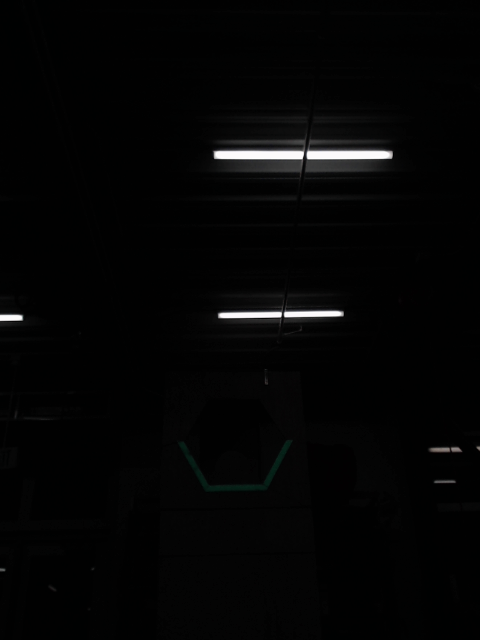
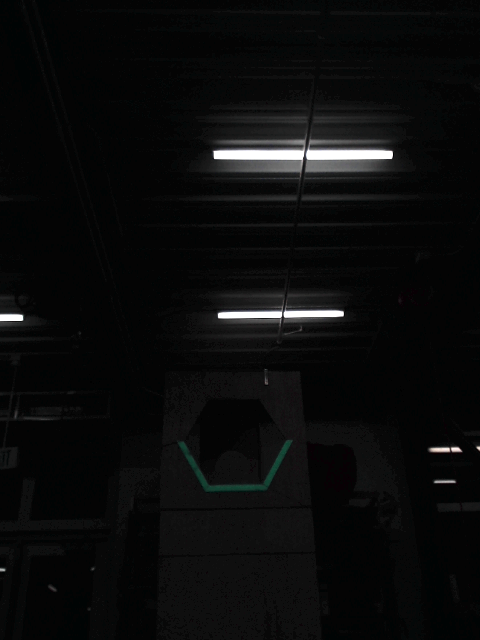
Fix constant angle error

diff --git a/pose_calculator.py b/pose_calculator.py
@@ -50,6 +50,8 @@ class PoseCalculator:
         # number of previous values to keep for average
         self.NUM_VALS = 10
 
+        self.CAMERA_TILT = math.radians(30)
+
     def __enter__(self):
         return self
 
@@ -162,9 +164,27 @@ class PoseCalculator:
         rvec, tvec = self.get_angle_dist(Target(corners, area))
         rmat, _ = cv2.Rodrigues(rvec)  # convert rotation vector to matrix
 
-        # rx, ry, rz = self.get_euler_from_rodrigues(rmat)
-        r_euler = R.from_rotvec(rvec.flatten()).as_euler('xyz', degrees=True)
-        rx, ry, rz = r_euler[0], r_euler[1], r_euler[2]
+        rx, ry, rz = self.get_euler_from_rodrigues(rmat)
+        # r_euler = R.from_rotvec(rvec.flatten()).as_euler('xyz', degrees=True)
+        # rx, ry, rz = r_euler[0], r_euler[1], r_euler[2]
+
+        # experimentally determined constant
+        ry += 26.5
+
+        rot = [rx, ry, rz]
+
+        rot_x = np.array([[1, 0, 0], [0, math.cos(math.radians(rot[0])), -math.sin(math.radians(rot[0]))], [0, math.sin(math.radians(rot[0])), math.cos(math.radians(rot[0]))]])
+        rot_y = np.array([[math.cos(math.radians(rot[1])), 0, math.sin(math.radians(rot[1]))], [0, 1, 0], [-math.sin(math.radians(rot[1])), 0, math.cos(math.radians(rot[1]))]])
+        rot_z = np.array([[math.cos(math.radians(rot[2])), math.sin(math.radians(rot[2])), 0], [-math.sin(math.radians(rot[2])), math.cos(math.radians(rot[2])), 0], [0, 0, 1]])
+
+        rot_camera = np.array([[math.cos(self.CAMERA_TILT), 0, math.sin(self.CAMERA_TILT)], [0, 1, 0], [-math.sin(self.CAMERA_TILT), 0, math.cos(self.CAMERA_TILT)]])
+
+        r_target = np.linalg.inv(rot_camera) @ rot_z @ rot_y @ rot_x
+
+        r = R.from_matrix(r_target)
+        new_rotations = r.as_euler('zyx', degrees=True)
+
+        rx, ry, rz = new_rotations[0], new_rotations[1], new_rotations[2]
 
         tvec *= self.DISTANCE_CONSTANT
         tvec = tvec.flatten()

diff --git a/green_calibration.py b/green_calibration.py
@@ -27,6 +27,11 @@ class GreenCalibration:
         self.low_green = np.array([68, 100, 50])
         self.high_green = np.array([84, 255, 255])
 
+        # Blender constants
+
+        # self.low_green = np.array([0, 0, 10])
+        # self.high_green = np.array([180, 255, 255])
+
     def get_new_hsv(self, mask):
         if (len(mask) == 0):
             return self.low_green, self.high_green
